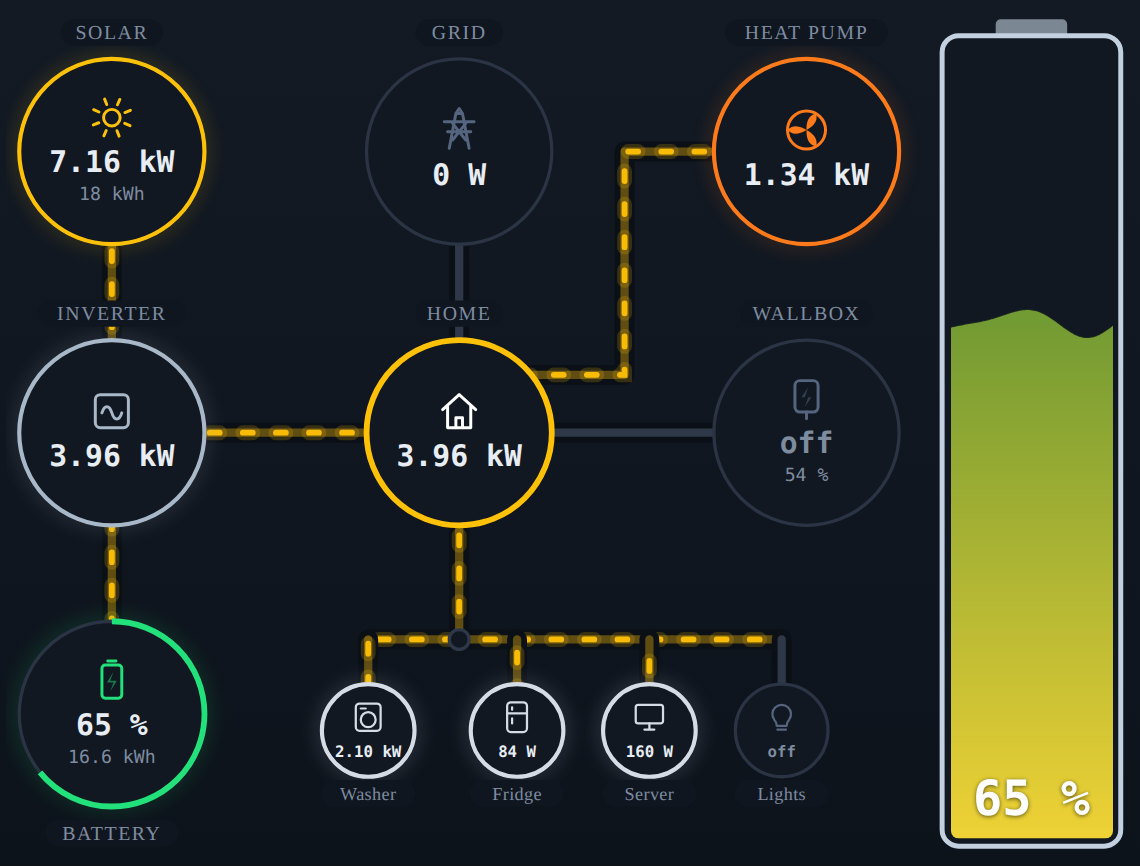
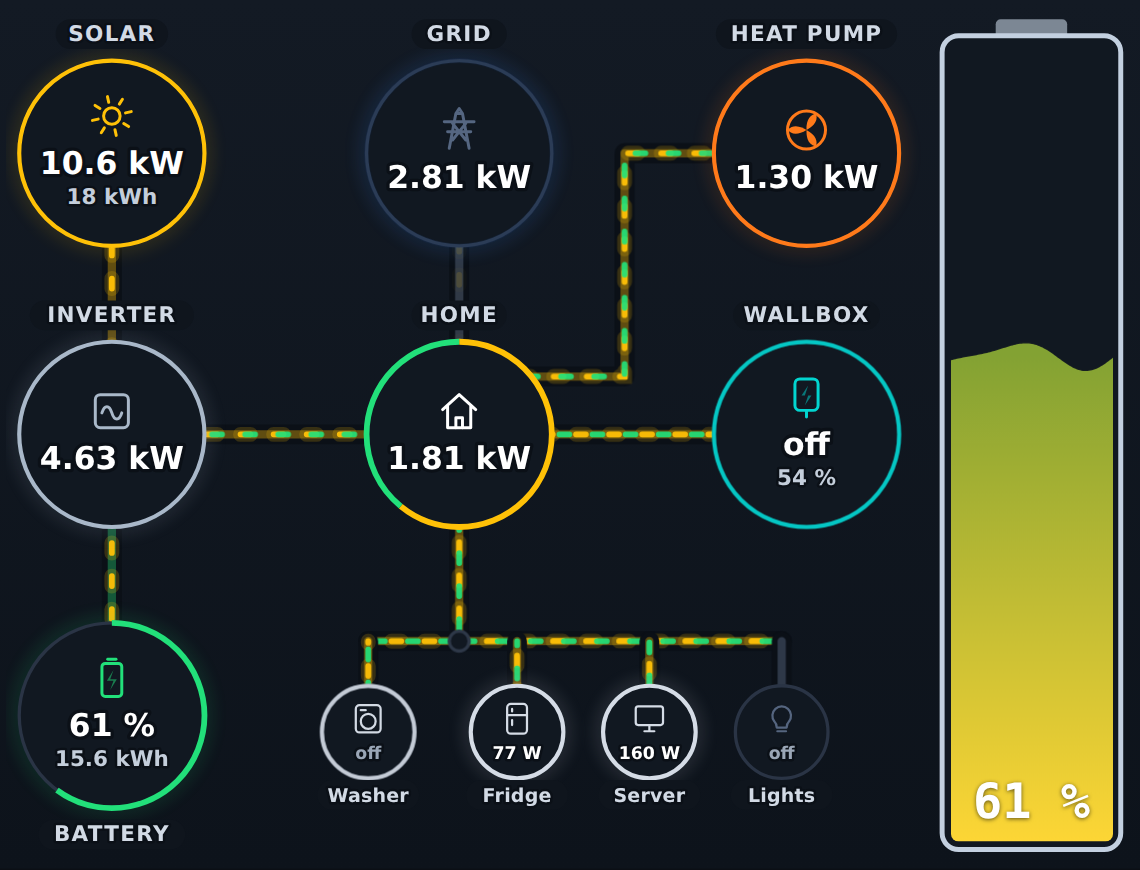
fix fonts

diff --git a/dist/energy-flow-card-by-lutarym.js b/dist/energy-flow-card-by-lutarym.js
@@ -223,6 +223,8 @@ const DEFAULT_CONFIG = {
   animation_speed: 1,
   // Faktor fuer alle Schriften der Karte, 1 ist normal.
   font_scale: 1,
+  // Namen ueber und unter den Kreisen anzeigen.
+  show_names: true,
   // Aussehen der laufenden Leitungen, siehe STILE.
   animation_style: "striche",
   // Akkusaeule rechts neben dem Fluss.
@@ -613,7 +615,7 @@ class LutarymEnergyFlowCard extends HTMLElement {
 
   /** Eingestellter Schriftfaktor, begrenzt auf einen lesbaren Bereich. */
   _fs() {
-    return clamp(Number(this._config && this._config.font_scale) || 1, 0.7, 1.3);
+    return clamp(Number(this._config && this._config.font_scale) || 1, 0.7, 1.15);
   }
 
   /** Eigener Name gewinnt, sonst der Name in der Kartensprache. */
@@ -1055,18 +1057,20 @@ class LutarymEnergyFlowCard extends HTMLElement {
    * Ein Knoten: Kreis mit Leuchtring, kleinem Symbol und Werten.
    * Alles innen ist relativ zur Kreismitte gezeichnet.
    */
-  _knoten({ id, pos, r, label, labelUnten, entity, icon, inhalt }) {
+  _knoten({ id, pos, r, label: name, labelUnten, entity, icon, inhalt }) {
     const radius = r || G.R;
     const f = this._fs();
+    // Ohne Namen bleibt nur der Kreis, der Rahmen schneidet den Platz weg.
+    const label = this._config.show_names === false ? "" : name;
     const ly = labelUnten ? radius + (radius > 40 ? 20 : 14) * f : -(radius + 12);
     return `
       <g class="node" id="dev-${id}" transform="translate(${pos.x} ${pos.y})" ${entity ? `data-entity="${entity}"` : ""}>
         <circle id="glow-${id}" class="node-glow" r="${radius}" opacity="0" filter="url(#glowBlur)"/>
         <circle class="node-bg" r="${radius}"/>
         <circle id="ring-${id}" class="node-ring" r="${radius}"/>
-        ${label ? `<rect class="label-bg" x="${-(String(label).length * (radius > 40 ? 4.6 : 3.4) * f + 8)}" y="${ly - 12 * f}"
-              width="${String(label).length * (radius > 40 ? 9.2 : 6.8) * f + 16}" height="${16 * f}" rx="${8 * f}"/>` : ""}
-        <text class="node-label${radius > 40 ? "" : " klein"}" id="${id}-label" y="${ly}" text-anchor="middle">${escapeHtml(label)}</text>
+        ${label ? `<rect class="label-bg" x="${-(String(label).length * (radius > 40 ? 5.2 : 3.8) * f + 8)}" y="${ly - 13 * f}"
+              width="${String(label).length * (radius > 40 ? 10.4 : 7.6) * f + 16}" height="${18 * f}" rx="${9 * f}"/>
+        <text class="node-label${radius > 40 ? "" : " klein"}" id="${id}-label" y="${ly}" text-anchor="middle">${escapeHtml(label)}</text>` : ""}
         <g class="icon" id="icon-${id}" transform="translate(0 ${radius > 40 ? -30 : -8})${radius > 40 ? "" : " scale(0.75)"}">${icon}</g>
         ${inhalt}
       </g>`;
@@ -1115,7 +1119,7 @@ class LutarymEnergyFlowCard extends HTMLElement {
       ${ex.map((v, i) => this._knoten({
         id: `ex${i}`, r: G.R_KLEIN, labelUnten: true,
         pos: { x: G.EX_X[i], y: G.EX_Y },
-        label: kuerzen(v.name, 11),
+        label: kuerzen(v.name, 9),
         icon: `<g id="ex${i}-sym">${SYMBOLE[v.symbol] || SYMBOLE.steckdose}</g>`,
         inhalt: `<text class="value-k" id="ex${i}-v" y="${(14 + 2 * this._fs()).toFixed(1)}" text-anchor="middle">--</text>`,
       })).join("")}`;
@@ -1467,10 +1471,10 @@ class LutarymEnergyFlowCard extends HTMLElement {
     const ABSTAND = 5 * f;
     // Hoehe und Abstand der Grundlinie von der Oberkante je Zeile.
     const zeilen = [
-      { el: this._el(`${id}-v`), hoehe: 21 * f, grund: 16 * f },
-      { el: this._el(`${id}-s`), hoehe: 15 * f, grund: 12 * f },
-      { el: this._el(`${id}-s2`), hoehe: 15 * f, grund: 12 * f },
-      { el: this._el(`${id}-s3`), hoehe: 15 * f, grund: 12 * f },
+      { el: this._el(`${id}-v`), hoehe: 23 * f, grund: 18 * f },
+      { el: this._el(`${id}-s`), hoehe: 17 * f, grund: 13 * f },
+      { el: this._el(`${id}-s2`), hoehe: 17 * f, grund: 13 * f },
+      { el: this._el(`${id}-s3`), hoehe: 17 * f, grund: 13 * f },
     ].filter((z) => z.el && z.el.textContent !== "");
     const gesamt = SYMBOL + ABSTAND + zeilen.reduce((a, z) => a + z.hoehe, 0);
     const schluessel = zeilen.map((z) => z.el.id).join("|");
@@ -1790,22 +1794,31 @@ class LutarymEnergyFlowCard extends HTMLElement {
         fill: none; stroke-width: 3.5; stroke-linecap: butt;
         transition: stroke-dasharray 900ms ease, stroke-dashoffset 900ms ease, stroke 900ms ease;
       }
-      .label-bg { fill: #10161F; }
-      .node-label { fill: #7E8CA0; font-size: ${px(12)}; letter-spacing: 0.08em; text-transform: uppercase; }
-      .node-label.klein { font-size: ${px(11)}; letter-spacing: 0.02em; text-transform: none; }
+      .label-bg { fill: #0F151D; }
+      /* Klare Schrift: hell auf dunkel, kraeftig, mit dunkler Kontur, damit
+         sie auch ueber Leuchtschein und Leitungen gut lesbar bleibt. */
+      .node-label, .value, .value-k, .sub {
+        font-family: Roboto, "Segoe UI", system-ui, -apple-system, sans-serif;
+        paint-order: stroke; stroke: #0B1017; stroke-linejoin: round;
+      }
+      .node-label {
+        fill: #D2DAE5; font-size: ${px(13)}; font-weight: 600;
+        letter-spacing: 0.06em; text-transform: uppercase; stroke-width: 3px;
+      }
+      .node-label.klein { font-size: ${px(11.5)}; letter-spacing: 0.01em; text-transform: none; }
       .icon {
         color: #55657F; fill: none; stroke: currentColor; stroke-width: 1.8;
         stroke-linecap: round; stroke-linejoin: round; transition: color 500ms ease;
       }
-      .value, .value-k, .sub {
-        font-family: ui-monospace, "SF Mono", Menlo, monospace;
-        font-variant-numeric: tabular-nums;
+      .value, .value-k, .sub { font-variant-numeric: tabular-nums; }
+      .value {
+        fill: #FFFFFF; font-size: ${px(19)}; font-weight: 700; stroke-width: 4px;
+        transition: fill 500ms ease;
       }
-      .value { fill: #E8EDF4; font-size: ${px(18)}; font-weight: 700; transition: fill 500ms ease; }
-      .value-k { fill: #E8EDF4; font-size: ${px(9.5)}; font-weight: 700; }
-      .sub { fill: #7E8CA0; font-size: ${px(11)}; transition: fill 500ms ease; }
+      .value-k { fill: #FFFFFF; font-size: ${px(10.5)}; font-weight: 700; stroke-width: 3px; }
+      .sub { fill: #C4CEDB; font-size: ${px(13)}; font-weight: 600; stroke-width: 3px; transition: fill 500ms ease; }
 
-      .is-aus { fill: #7E8CA0; font-weight: 600; }
+      .is-aus { fill: #9AA6B6; font-weight: 600; }
     `;
   }
 }
@@ -1820,6 +1833,7 @@ const EDITOR_TEXTE = {
     allgemein: "Allgemein",
     language: "Sprache",
     demo: "Demomodus (Beispielwerte)",
+    show_names: "Namen anzeigen",
     animate: "Animation",
     animation_speed: "Animationsgeschwindigkeit (1 = normal)",
     font_scale: "Schriftgröße (1 = normal)",
@@ -1892,6 +1906,7 @@ const EDITOR_TEXTE = {
     allgemein: "General",
     language: "Language",
     demo: "Demo mode (sample values)",
+    show_names: "Show names",
     animate: "Animation",
     animation_speed: "Animation speed (1 = normal)",
     font_scale: "Font size (1 = normal)",
@@ -2042,9 +2057,10 @@ class LutarymEnergyFlowCardEditor extends HTMLElement {
           { value: "de", label: "Deutsch" },
           { value: "en", label: "English" },
         ] } } },
+        { name: "show_names", selector: JA_NEIN },
         { name: "animate", selector: JA_NEIN },
         { name: "animation_speed", selector: { number: { min: 0.25, max: 3, step: 0.25, mode: "slider" } } },
-        { name: "font_scale", selector: { number: { min: 0.7, max: 1.3, step: 0.05, mode: "slider" } } },
+        { name: "font_scale", selector: { number: { min: 0.7, max: 1.15, step: 0.05, mode: "slider" } } },
         { name: "animation_style", selector: { select: { mode: "dropdown",
           options: STIL_NAMEN.map((k) => ({ value: k, label: EDITOR_TEXTE[sp].stil[k] })) } } },
         { name: "max_power", selector: { number: { min: 1000, max: 50000, step: 500, mode: "box" } } },

diff --git a/README.md b/README.md
@@ -90,9 +90,10 @@ Symbols: `steckdose`, `waschmaschine`, `spuelmaschine`, `herd`, `kuehlschrank`, 
 |---|---|---|
 | `language` | `auto` | `auto`, `de` or `en` |
 | `demo` | `false` | Sample values for trying out |
+| `show_names` | `true` | Show the names above and below the circles |
 | `animate` | `true` | Show the animation |
 | `animation_speed` | `1` | Speed factor of the animation, 0.25 to 3 |
-| `font_scale` | `1` | Size factor for all text, 0.7 to 1.3 |
+| `font_scale` | `1` | Size factor for all text, 0.7 to 1.15 |
 | `animation_style` | `striche` | Line animation: `striche` (dashes), `punkte` (dots), `perlen` (pearls), `lang` (long dashes), `komet` (comet), `morse`, `lauflicht` (running light), `neon`, `puls` (pulse), `blitz` (lightning) |
 | `battery_bar` | `true` | Battery bar on the right, full height of the card. The flow stays left aligned, the bar stays right aligned |
 | `battery_bar_animation` | `1` | Animation of the battery bar, 0 to 12: static, waves, pulse, bubbles, glitter, smooth fill, shimmer, lightning, rain, fire, matrix, scanline, heartbeat |

diff --git a/README.de.md b/README.de.md
@@ -90,9 +90,10 @@ Symbole: `steckdose`, `waschmaschine`, `spuelmaschine`, `herd`, `kuehlschrank`, 
 |---|---|---|
 | `language` | `auto` | `auto`, `de` oder `en` |
 | `demo` | `false` | Beispielwerte zum Ausprobieren |
+| `show_names` | `true` | Namen über und unter den Kreisen anzeigen |
 | `animate` | `true` | Animation zeigen |
 | `animation_speed` | `1` | Faktor für die Animationsgeschwindigkeit, 0,25 bis 3 |
-| `font_scale` | `1` | Faktor für alle Schriften, 0,7 bis 1,3 |
+| `font_scale` | `1` | Faktor für alle Schriften, 0,7 bis 1,15 |
 | `animation_style` | `striche` | Animation der Leitungen: `striche`, `punkte`, `perlen`, `lang`, `komet`, `morse`, `lauflicht`, `neon`, `puls`, `blitz` |
 | `battery_bar` | `true` | Akkusäule rechts, über die ganze Höhe der Karte. Der Fluss bleibt linksbündig, die Säule rechtsbündig |
 | `battery_bar_animation` | `1` | Animation der Akkusäule, 0 bis 12: statisch, Wellen, Pulsieren, Blasen, Glitzer, sanft auffüllend, Schimmern, Blitz, Regen, Feuer, Matrix, Scanline, Herzschlag |
